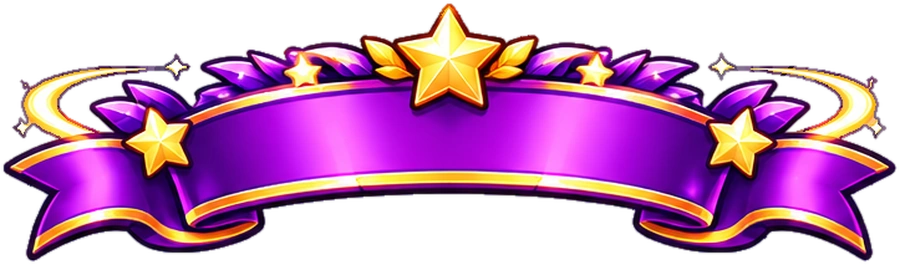
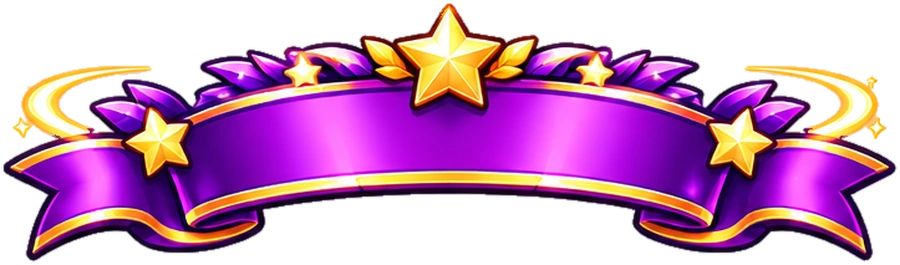
v241 : rubans sans traces sur les bords, pseudo plus petit et remonté sur les rubans de haut niveau
Claude-Session: https://claude.ai/code/session_015rMa72ZKTeXG5gb4Qifn48

diff --git a/js/app.js b/js/app.js
@@ -1,17 +1,17 @@
 // Y'a du peuple ? — logique de l'appli (carte, fiche, signalement, compte).
-import { api, DEMO } from './api.js?v=240';
+import { api, DEMO } from './api.js?v=241';
 import {
   MAP_STYLE_URL, DEFAULT_CENTER, DEFAULT_ZOOM, CONTACT_EMAIL, GOOGLE_CLIENT_ID,
   ROUTE, REFRESH_MS,
-} from './config.js?v=240';
+} from './config.js?v=241';
 import {
   LEVELS, LEVEL_INFO, WAIT_INFO, NO_INFO, levelInfo, describeStatus, mainStatus, brandShort,
   theoryLevelAt, parisNow, bestTimeToday, fmtHour, distanceM, fmtDistance, ago,
   levelFromPercent, gDay, dayHours, openDuringHour, bestTimeFromProfile, openState, hoursLines,
   estimateRoute, fmtDuration,
-} from './levels.js?v=240';
-import { airbnbize, addShieldImage } from './mapstyle.js?v=240';
-import { BRAND_PATHS } from './brands.js?v=240';
+} from './levels.js?v=241';
+import { airbnbize, addShieldImage } from './mapstyle.js?v=241';
+import { BRAND_PATHS } from './brands.js?v=241';
 
 // ---------------------------------------------------------------------------
 // État
@@ -1690,9 +1690,9 @@ let imagesPreloaded = false;
 function preloadAccountImages() {
   if (imagesPreloaded) return;
   imagesPreloaded = true;
-  const urls = new Set([...BADGE_ART].map((c) => `icons/badges/${c}.webp?v=240`));
+  const urls = new Set([...BADGE_ART].map((c) => `icons/badges/${c}.webp?v=241`));
   custom.load().then((list) => {
-    (list || []).forEach((c) => { if (/\.(webp|png|svg)$/.test(c.value || '')) urls.add(`${c.value}?v=240`); });
+    (list || []).forEach((c) => { if (/\.(webp|png|svg)$/.test(c.value || '')) urls.add(`${c.value}?v=241`); });
   }).catch(() => {}).finally(() => {
     const go = () => urls.forEach((u) => { const im = new Image(); im.decoding = 'async'; im.src = u; im.decode?.().catch(() => {}); preloaded.push(im); });
     (window.requestIdleCallback || ((f) => setTimeout(f, 300)))(go);
@@ -1752,7 +1752,7 @@ async function renderAccount(tab = 'profil', opts = {}) {
     </div>
     <div class="referral">
       <div class="ref-head">
-        <img class="ref-ico" src="icons/badges/ref1.webp?v=240" alt="">
+        <img class="ref-ico" src="icons/badges/ref1.webp?v=241" alt="">
         <div class="grow"><div class="t">Parrainage</div><div class="s">Invite tes amis : vous gagnez tous les deux.</div></div>
         <span class="ref-count"><b>${p.referrals ?? 0}</b>${(p.referrals ?? 0) > 1 ? 'amis' : 'ami'}</span>
       </div>
@@ -1809,17 +1809,17 @@ const custom = {
   async load() { if (!this.list.length) this.list = await api.customizations() || []; return this.list; },
   find(kind, code) { return this.list.find((c) => c.kind === kind && c.code === code); },
   // Valeur = fichier image de l'appli (icons/avatars/…svg, icons/banners/…svg) ; ancien format emoji/dégradé toléré.
-  img(v, cls = '') { return /\.(webp|png|svg)$/.test(v || '') ? `<img src="${v}?v=240" alt="" class="${cls}">` : (v || ''); },
-  bg(v) { return /\.(webp|png|svg)$/.test(v || '') ? `url(${v}?v=240) center/cover` : v; },
+  img(v, cls = '') { return /\.(webp|png|svg)$/.test(v || '') ? `<img src="${v}?v=241" alt="" class="${cls}">` : (v || ''); },
+  bg(v) { return /\.(webp|png|svg)$/.test(v || '') ? `url(${v}?v=241) center/cover` : v; },
   avatar(code) { return this.img(this.find('avatar', code)?.value, 'avatar-img' + (String(code).startsWith('badge_') ? ' is-badge' : '')); },
   // Bannière = ruban qui porte le pseudo (rubans du 16/11/2026, outils/rubans_sheet2.py, découpés tels quels).
   // Pseudo : centré sur la bande de chaque ruban (hauteur mesurée) + contour de la couleur du ruban, foncée.
   // --ty = milieu vertical de la bande du ruban, au centre (mesuré sur les images v240, outils/rubans_decoupe_v3.py)
-  RIB: { ruban_ciel: ['44%', '#1c4e7f'], ruban_bonbon: ['43%', '#7a1f55'], ruban_turquoise: ['42.5%', '#0f5145'], ruban_orange: ['43%', '#7a3a00'], ruban_violet: ['43.5%', '#3d1466'], ruban_laurier: ['43.5%', '#1e5a4c'], ruban_nuit: ['43%', '#04203f'], ruban_vache: ['43.5%', '#5a3418'], ruban_damier: ['44%', '#111111'], ruban_flammes: ['44%', '#4a0a05'], ruban_vert: ['41%', '#1f5a0f'], ruban_fleurs: ['57.9%', '#245c0b'], ruban_coeur: ['57.5%', '#7d0f45'], ruban_flocon: ['58.4%', '#0b3a7a'], ruban_engrenage: ['53.9%', '#064450'], ruban_etoile_or: ['56.3%', '#6e3300'], ruban_diamant: ['56.9%', '#0a2f6e'], ruban_flamme_violet: ['55.8%', '#2e0a52'], ruban_etoile_violet: ['53.5%', '#3a0b5c'], ruban_couronne: ['63%', '#5a0606'] },
+  RIB: { ruban_ciel: ['44%', '#1c4e7f'], ruban_bonbon: ['43%', '#7a1f55'], ruban_turquoise: ['42.5%', '#0f5145'], ruban_orange: ['43%', '#7a3a00'], ruban_violet: ['43.5%', '#3d1466'], ruban_laurier: ['43.5%', '#1e5a4c'], ruban_nuit: ['43%', '#04203f'], ruban_vache: ['43.5%', '#5a3418'], ruban_damier: ['44%', '#111111'], ruban_flammes: ['44%', '#4a0a05'], ruban_vert: ['40%', '#1f5a0f', 0.82], ruban_fleurs: ['56.5%', '#245c0b', 0.82], ruban_coeur: ['56%', '#7d0f45', 0.82], ruban_flocon: ['57%', '#0b3a7a', 0.82], ruban_engrenage: ['52.5%', '#064450', 0.82], ruban_etoile_or: ['55%', '#6e3300', 0.82], ruban_diamant: ['55.5%', '#0a2f6e', 0.82], ruban_flamme_violet: ['54.5%', '#2e0a52', 0.82], ruban_etoile_violet: ['52%', '#3a0b5c', 0.82], ruban_couronne: ['61.5%', '#5a0606', 0.82] },
   ribbon(code, pseudo) {
     const b = this.find('banner', code) || this.list.find((c) => c.kind === 'banner');
-    const [ty, tc] = this.RIB[b?.code] || ['46%', '#0B1F3A'];
-    return `<div class="ribbon" style="--ty:${ty};--tc:${tc};--n:${Math.max(8, [...String(pseudo || '')].length)}">${b ? `<img src="${b.value}?v=240" alt="">` : ''}<span>${esc(pseudo || '')}</span></div>`;
+    const [ty, tc, fs = 1] = this.RIB[b?.code] || ['46%', '#0B1F3A'];
+    return `<div class="ribbon" style="--ty:${ty};--tc:${tc};--fs:${fs};--n:${Math.max(8, [...String(pseudo || '')].length)}">${b ? `<img src="${b.value}?v=241" alt="">` : ''}<span>${esc(pseudo || '')}</span></div>`;
   },
 };
 async function openCustomize() {
@@ -1832,7 +1832,7 @@ async function openCustomize() {
     const needBadge = !all && c.requires_badge && !mine.has(c.requires_badge);
     const locked = !all && (lvl < c.min_level || needBadge);
     const on = (c.kind === 'avatar' ? p.avatar : p.banner) === c.code;
-    const inner = c.kind === 'avatar' ? `<span class="cz-emoji">${custom.img(c.value, 'cz-img')}</span>` : `<span class="cz-ribbon"><img src="${c.value}?v=240" alt=""></span>`;
+    const inner = c.kind === 'avatar' ? `<span class="cz-emoji">${custom.img(c.value, 'cz-img')}</span>` : `<span class="cz-ribbon"><img src="${c.value}?v=241" alt=""></span>`;
     const label = c.requires_badge ? (needBadge ? '🔒' : '✅') : `${locked ? '🔒 ' : ''}Niv. ${c.min_level}`;
     return `<button type="button" class="cz ${on ? 'on' : ''} ${locked ? 'locked' : ''}" data-kind="${c.kind}" data-code="${c.code}" ${locked ? 'disabled' : ''}>
       ${inner}<span class="cz-lock">${esc(label)}</span></button>`;
@@ -1920,7 +1920,7 @@ const BADGE_ART = new Set(['v1', 'v10', 'v50', 'v100', 'v250', 'v500', 'drive10'
 // Badges en .svg : plus aucun (outils/badges_sheet.py et badges_sheet2.py découpent les images ChatGPT).
 const BADGE_SVG = new Set(); // tous les badges sont maintenant des images ChatGPT (.webp)
 const badgeImg = (code) => BADGE_ART.has(code)
-  ? `<img src="icons/badges/${code}.${BADGE_SVG.has(code) ? 'svg' : 'webp'}?v=240" alt="" class="badge-img">`
+  ? `<img src="icons/badges/${code}.${BADGE_SVG.has(code) ? 'svg' : 'webp'}?v=241" alt="" class="badge-img">`
   : `<span class="badge-emoji">${BADGE_ICONS[code] || '🏅'}</span>`;
 function badgesHtml(rows = []) {
   if (!rows.length) return '<p class="muted">Aucun badge pour le moment.</p>';
@@ -2948,7 +2948,7 @@ async function openWheel(month = parisMonth(-1)) {
   const el = document.createElement('div');
   el.id = 'wheel';
   el.innerHTML = `<button class="wh-x" aria-label="Fermer">✕</button><button class="wh-snd" aria-label="Son">🔊</button>
-    <div class="wh-head"><img src="icons/logo-boot.png?v=240" alt="Y'a du peuple ?"><div class="wh-t">Tirage au sort</div><div class="wh-m">${monthLabel(month)}${official ? '' : ' · essai'}</div></div>
+    <div class="wh-head"><img src="icons/logo-boot.png?v=241" alt="Y'a du peuple ?"><div class="wh-t">Tirage au sort</div><div class="wh-m">${monthLabel(month)}${official ? '' : ' · essai'}</div></div>
     <div class="wh-stage"><div class="wh-ptr"></div><canvas width="900" height="900"></canvas><div class="wh-hub"></div></div>
     <div class="wh-now">⏳</div>
     <div class="wh-info"></div>

diff --git a/css/app.css b/css/app.css
@@ -656,7 +656,7 @@ html, body, .sheet, .sheet-body, .welcome, .cards { touch-action: pan-x pan-y; }
 .profile-head .avatar-edit { right: 2px; bottom: 2px; }
 .ribbon { container-type: inline-size; position: relative; z-index: 1; width: min(100%, 330px); margin-top: 10px; filter: drop-shadow(0 3px 6px rgba(11,31,58,.18)); }
 .ribbon img { display: block; width: 100%; height: auto; }
-.ribbon span { position: absolute; left: 21%; right: 21%; top: var(--ty, 46%); transform: translateY(-42%); text-align: center; font-weight: 900; font-size: min(clamp(15px, 5.2vw, 21px), calc(55cqw / (var(--n, 10) * 0.64))); line-height: 1.15; color: #fff; letter-spacing: .3px; white-space: nowrap; overflow: hidden; text-overflow: ellipsis; padding: 3px 2px;
+.ribbon span { position: absolute; left: 21%; right: 21%; top: var(--ty, 46%); transform: translateY(-42%); text-align: center; font-weight: 900; font-size: calc(min(clamp(15px, 5.2vw, 21px), calc(55cqw / (var(--n, 10) * 0.64))) * var(--fs, 1)); line-height: 1.15; color: #fff; letter-spacing: .3px; white-space: nowrap; overflow: hidden; text-overflow: ellipsis; padding: 3px 2px;
   text-shadow: 2px 0 0 var(--tc), -2px 0 0 var(--tc), 0 2px 0 var(--tc), 0 -2px 0 var(--tc), 1.5px 1.5px 0 var(--tc), -1.5px 1.5px 0 var(--tc), 1.5px -1.5px 0 var(--tc), -1.5px -1.5px 0 var(--tc), 0 3px 4px rgba(0,0,0,.35); }
 .profile-head .lvl { margin-top: 2px; }
 .cz-ribbon { display: block; width: 100%; }
@@ -863,7 +863,7 @@ html, body, .sheet, .sheet-body, .welcome, .cards { touch-action: pan-x pan-y; }
 #wheel .wh-stage { position: relative; width: min(88vw, 52vh, 460px); aspect-ratio: 1; margin: 16px 0 10px; }
 #wheel canvas { width: 100%; height: 100%; display: block; filter: drop-shadow(0 10px 24px rgba(11,31,58,.35)); }
 #wheel .wh-ptr { position: absolute; left: 50%; top: -14px; transform: translateX(-50%); width: 0; height: 0; border-left: 18px solid transparent; border-right: 18px solid transparent; border-top: 34px solid #0B1F3A; z-index: 2; filter: drop-shadow(0 2px 2px rgba(0,0,0,.3)); }
-#wheel .wh-hub { position: absolute; left: 50%; top: 50%; width: 15%; aspect-ratio: 1; transform: translate(-50%, -50%); border-radius: 50%; background: #fff url('../icons/icon-192.png?v=240') center / 78% no-repeat; box-shadow: 0 2px 8px rgba(0,0,0,.25); }
+#wheel .wh-hub { position: absolute; left: 50%; top: 50%; width: 15%; aspect-ratio: 1; transform: translate(-50%, -50%); border-radius: 50%; background: #fff url('../icons/icon-192.png?v=241') center / 78% no-repeat; box-shadow: 0 2px 8px rgba(0,0,0,.25); }
 #wheel .wh-now { min-height: 44px; font-size: 32px; font-weight: 900; color: #fff; text-shadow: 0 2px 6px rgba(11,31,58,.35); text-align: center; max-width: 100%; overflow: hidden; text-overflow: ellipsis; white-space: nowrap; }
 #wheel .wh-info { font-size: 15px; font-weight: 700; color: #0B1F3A; margin: 2px 0 12px; }
 #wheel .wh-actions { width: min(100%, 420px); margin-top: auto; }

diff --git a/index.html b/index.html
@@ -23,13 +23,13 @@
   <link rel="preconnect" href="https://tiles.openfreemap.org" crossorigin>
   <link rel="preconnect" href="https://ygekcpnsjbbdgtmlxdce.supabase.co" crossorigin>
   <link rel="manifest" href="manifest.webmanifest">
-  <link rel="icon" href="icons/fav-64.png?v=240" type="image/png" sizes="64x64">
-  <link rel="icon" href="icons/fav-192.png?v=240" type="image/png" sizes="192x192">
-  <link rel="apple-touch-icon" href="icons/icon-512.png?v=240">
+  <link rel="icon" href="icons/fav-64.png?v=241" type="image/png" sizes="64x64">
+  <link rel="icon" href="icons/fav-192.png?v=241" type="image/png" sizes="192x192">
+  <link rel="apple-touch-icon" href="icons/icon-512.png?v=241">
   <meta name="apple-mobile-web-app-capable" content="yes">
   <meta name="apple-mobile-web-app-status-bar-style" content="default">
   <link rel="stylesheet" href="vendor/maplibre-gl.css">
-  <link rel="stylesheet" href="css/app.css?v=240" id="app-css">
+  <link rel="stylesheet" href="css/app.css?v=241" id="app-css">
   <style>/* Secours si app.css n'arrive pas : on garde l'écran turquoise au lieu d'une page sans style */
     html.booting, html.booting body, html.css-wait, html.css-wait body { background:#46B8B9; margin:0 }
     html.booting body > *:not(#welcome), html.css-wait body > * { visibility:hidden }
@@ -76,7 +76,7 @@
   <section class="welcome" id="welcome" hidden>
     <div class="welcome-inner">
       <div class="welcome-logo">
-        <img src="icons/logo-boot.png?v=240" alt="Y'a du peuple ?" width="242" height="203">
+        <img src="icons/logo-boot.png?v=241" alt="Y'a du peuple ?" width="242" height="203">
       </div>
       <h1 class="sr-only">Y'a du peuple&nbsp;?</h1>
       <p class="slogan" id="slogan">Venu pour manger, pas pour poireauter.</p>
@@ -95,7 +95,7 @@
 
   <script src="vendor/maplibre-gl.js"></script>
   <script src="vendor/supabase.js"></script>
-  <script type="module" src="js/app.js?v=240"></script>
+  <script type="module" src="js/app.js?v=241"></script>
   <script>
   /* Contrôle du style : si app.css n'a pas été appliqué (réseau coupé au 1er chargement), on le redemande, puis on recharge la page une fois. */
   (function () {
@@ -105,7 +105,7 @@
       document.documentElement.classList.add('css-wait');
       if (n === 0) {
         var l = document.createElement('link'); l.rel = 'stylesheet';
-        l.href = 'css/app.css?v=240&r=' + Date.now(); document.head.appendChild(l);
+        l.href = 'css/app.css?v=241&r=' + Date.now(); document.head.appendChild(l);
         setTimeout(function () { check(1); }, 2500);
       } else if (!sessionStorage.getItem('ydp_css_reload')) {
         sessionStorage.setItem('ydp_css_reload', '1'); location.reload();

diff --git a/demo.html b/demo.html
@@ -9,12 +9,12 @@
   <meta name="theme-color" content="#0B1F3A" media="(prefers-color-scheme: dark)">
   <meta name="theme-color" content="#0B1F3A">
   <link rel="manifest" href="manifest.webmanifest">
-  <link rel="icon" href="icons/fav-64.png?v=240" type="image/png">
-  <link rel="apple-touch-icon" href="icons/icon-512.png?v=240">
+  <link rel="icon" href="icons/fav-64.png?v=241" type="image/png">
+  <link rel="apple-touch-icon" href="icons/icon-512.png?v=241">
   <meta name="apple-mobile-web-app-capable" content="yes">
   <meta name="apple-mobile-web-app-status-bar-style" content="default">
   <link rel="stylesheet" href="vendor/maplibre-gl.css">
-  <link rel="stylesheet" href="css/app.css?v=240">
+  <link rel="stylesheet" href="css/app.css?v=241">
 </head>
 <body class="intro">
   <div id="map" aria-label="Carte des restaurants"></div>
@@ -57,7 +57,7 @@
   <section class="welcome" id="welcome" hidden>
     <div class="welcome-inner">
       <div class="welcome-logo">
-        <img src="icons/icon-512.png?v=240" alt="" width="110" height="110" style="border-radius:26px">
+        <img src="icons/icon-512.png?v=241" alt="" width="110" height="110" style="border-radius:26px">
       </div>
       <h1>Y'a du peuple&nbsp;?</h1>
       <p class="slogan" id="slogan">Venu pour manger, pas pour poireauter.</p>
@@ -77,6 +77,6 @@
   <script>window.YDP_DEMO = true;</script>
   <script src="vendor/maplibre-gl.js"></script>
   <script src="vendor/supabase.js"></script>
-  <script type="module" src="js/app.js?v=240"></script>
+  <script type="module" src="js/app.js?v=241"></script>
 </body>
 </html>

diff --git a/js/demo.js b/js/demo.js
@@ -1,5 +1,5 @@
 // Faux serveur pour le mode démo (?demo) : aucune donnée réelle n'est lue ni écrite.
-import { DEMO_ESTABLISHMENTS as DEMO_ALL } from './demo-data.js?v=240';
+import { DEMO_ESTABLISHMENTS as DEMO_ALL } from './demo-data.js?v=241';
 // Comme la base : Buffalo Grill et Flunch cachés (24/11/2026).
 const DEMO_ESTABLISHMENTS = DEMO_ALL.filter((e) => !/^(Buffalo Grill|Flunch)$/.test(e.brand));
 // Démo envoyée aux futurs partenaires (?demo&resto) : le resto partenaire de démonstration ne porte pas le nom d'un vrai restaurant.
@@ -7,7 +7,7 @@ if (new URLSearchParams(location.search).has('resto')) {
   const e = DEMO_ESTABLISHMENTS.find((x) => x.id === '1410c6a8-46d9-4d6c-83f2-c98b8c7a4c42');
   if (e) e.name = 'Votre restaurant (démo)';
 }
-import { distanceM, LEVELS, theoryLevelAt, parisNow } from './levels.js?v=240';
+import { distanceM, LEVELS, theoryLevelAt, parisNow } from './levels.js?v=241';
 
 const wait = (ms = 150) => new Promise((r) => setTimeout(r, ms));
 

diff --git a/js/api.js b/js/api.js
@@ -1,6 +1,6 @@
 // Accès aux données : Supabase en vrai, ou un faux serveur en mode démo (?demo).
-import { SUPABASE_URL, SUPABASE_PUBLISHABLE_KEY } from './config.js?v=240';
-import { createDemoApi } from './demo.js?v=240';
+import { SUPABASE_URL, SUPABASE_PUBLISHABLE_KEY } from './config.js?v=241';
+import { createDemoApi } from './demo.js?v=241';
 
 // Charge une table par pages de 1000 : 5 pages en parallèle, puis la suite si besoin.
 async function pagesInParallel(page, first = 5) {

diff --git a/outils/rubans_decoupe_v4.py b/outils/rubans_decoupe_v4.py
@@ -1,0 +1,106 @@
+"""Rubans de profil : nouvelle découpe (28/11/2026, demande d'Alexis : plus aucune trace sur les bords, rien de redessiné).
+Les rubans des planches ChatGPT ont tous un contour foncé ; derrière : fond blanc, halo blanc et ombre lavande.
+1) objet = tout ce qui est enfermé par le contour (pixels colorés ou foncés, trous bouchés) ;
+2) bord : le liseré clair/gris qui reste à l'extérieur du contour est retiré, et les pixels du bord prennent
+   la couleur du contour voisin (pas de halo clair) ; transparence lissée sur 1 pixel seulement.
+3) taille d'origine × 1,3 (900 px de large), sans flou ni retouche du dessin.
+Les anciennes images sont gardées dans outils/src/rubans_avant_v3/.
+v4 (28/11) : ce qui dépasse du contour foncé (lueurs, halos clairs, éclats) est retiré, sauf les gros morceaux colorés.
+Usage : python3 outils/rubans_decoupe_v4.py [dossier de sortie]"""
+import os, shutil
+import numpy as np
+from PIL import Image, ImageFilter
+from scipy import ndimage
+
+SHEETS = {
+    'outils/src/rubans_sheet.png':  [None, None, 'ruban_vert', None, None, None, None, None, None, None],
+    'outils/src/rubans_sheet2.png': ['ruban_nuit', 'ruban_turquoise', 'ruban_violet', 'ruban_ciel', 'ruban_laurier',
+                                     'ruban_bonbon', 'ruban_orange', 'ruban_damier', 'ruban_vache', 'ruban_flammes'],
+    'outils/src/rubans_sheet3.png': ['ruban_couronne', 'ruban_etoile_violet', None, 'ruban_flamme_violet', 'ruban_engrenage',
+                                     'ruban_diamant', 'ruban_fleurs', 'ruban_coeur', 'ruban_etoile_or', 'ruban_flocon'],
+}
+OUT_W = 900
+import sys
+OUT_DIR = sys.argv[1] if len(sys.argv) > 1 else 'icons/banners'
+
+def cut(path, codes):
+    im = Image.open(path).convert('RGB')
+    a = np.asarray(im).astype(float)
+    mx, mn = a.max(axis=2), a.min(axis=2)
+    lum = a @ [0.299, 0.587, 0.114]
+    sat = (mx - mn) / np.maximum(mx, 1)
+    # pixels qui appartiennent sûrement au dessin : bien colorés, ou foncés (contour)
+    core = ((sat > 0.45) & (mx > 60)) | ((sat > 0.32) & (lum < 150)) | (lum < 125)
+    # fond = clair et peu coloré, relié au bord de l'image (blanc, halo, ombre lavande)
+    light = ~core
+    lab, _ = ndimage.label(light)
+    edge = set(np.unique(np.concatenate([lab[0], lab[-1], lab[:, 0], lab[:, -1]]))) - {0}
+    bg = np.isin(lab, list(edge))
+    obj = ~bg
+    # trous : bouchés sauf s'ils sont de l'ombre / du fond coincés (clairs et peu colorés, assez grands)
+    holes = ndimage.binary_fill_holes(obj) & ~obj
+    hl, nh = ndimage.label(holes)
+    for j in range(1, nh + 1):
+        h = hl == j
+        shade = (~core[h]).mean() > 0.8 and (sat[h] < 0.25).mean() > 0.8 and (lum[h] > 150).mean() > 0.8
+        if not (shade and h.sum() >= 30): obj |= h
+    obj = ndimage.binary_opening(obj, iterations=1)
+    lab2, k = ndimage.label(ndimage.binary_dilation(obj, iterations=3))
+    sizes = ndimage.sum(obj, lab2, range(1, k + 1))
+    keep = np.argsort(sizes)[::-1][:10] + 1
+    boxes = sorted([(ndimage.find_objects((lab2 == i).astype(int))[0], i) for i in keep],
+                   key=lambda t: (t[0][1].start > a.shape[1] / 2, t[0][0].start))
+    for code, (b, i) in zip(codes, boxes):
+        if not code: continue
+        m = obj & (lab2 == i)
+        # garde seulement le gros morceau (et les ornements de taille notable)
+        l3, k3 = ndimage.label(m)
+        if k3 > 1:
+            sz = ndimage.sum(m, l3, range(1, k3 + 1))
+            m = np.isin(l3, [j + 1 for j, v in enumerate(sz) if v >= sz.max() * 0.02])
+        # épluche depuis l'extérieur le liseré clair / peu coloré resté hors du contour
+        for _ in range(15):
+            border = m & ~ndimage.binary_erosion(m)
+            peel = border & ~core
+            if not peel.any(): break
+            m = m & ~peel
+        # v4 : tout ce qui est hors du contour foncé est du fond (halo, lueur), sauf les gros morceaux colorés sans contour
+        dark0 = m & (lum < 115)
+        enc = ndimage.binary_fill_holes(ndimage.binary_closing(dark0, iterations=2)) & m
+        outs = m & ~enc
+        oo = ndimage.binary_opening(outs, iterations=2)
+        lo, ko = ndimage.label(oo)
+        big = np.zeros_like(oo)
+        if ko:
+            so = ndimage.sum(oo, lo, range(1, ko + 1))
+            big = np.isin(lo, [j + 1 for j, v in enumerate(so) if v >= 300])
+        m = enc | (ndimage.binary_dilation(big, iterations=2) & outs)
+        m = ndimage.binary_opening(m, iterations=1)
+        l3, k3 = ndimage.label(m)
+        if k3 > 1:
+            sz = ndimage.sum(m, l3, range(1, k3 + 1))
+            m = np.isin(l3, [j + 1 for j, v in enumerate(sz) if v >= sz.max() * 0.01])
+        # couleur du bord = couleur du contour foncé le plus proche (supprime tout halo clair)
+        dark = m & (lum < 125)
+        dist_in = ndimage.distance_transform_edt(m)
+        dd, (iy, ix) = ndimage.distance_transform_edt(~dark, return_indices=True)
+        rgb = a.copy()
+        band = m & (dist_in <= 2.5) & ~dark & (dd <= 4)
+        rgb[band] = a[iy[band], ix[band]]
+        # extension de 1 px de la couleur du contour vers l'extérieur (pour l'anticrénelage)
+        ring = ndimage.binary_dilation(m, iterations=2) & ~m & (dd <= 6)
+        rgb[ring] = a[iy[ring], ix[ring]]
+        alpha = np.asarray(Image.fromarray((m * 255).astype('uint8')).filter(ImageFilter.GaussianBlur(0.6))).astype(float)
+        out = Image.fromarray(np.dstack([np.clip(rgb, 0, 255), alpha]).astype('uint8'), 'RGBA')
+        ys, xs = np.nonzero(m)
+        crop = out.crop((max(0, xs.min() - 3), max(0, ys.min() - 3), min(a.shape[1], xs.max() + 4), min(a.shape[0], ys.max() + 4)))
+        crop = crop.resize((OUT_W, round(crop.height * OUT_W / crop.width)), Image.LANCZOS)
+        dst = f'{OUT_DIR}/{code}.webp'
+        os.makedirs('outils/src/rubans_avant_v3', exist_ok=True)
+        if OUT_DIR == 'icons/banners' and os.path.exists(dst) and not os.path.exists(f'outils/src/rubans_avant_v3/{code}.webp'):
+            shutil.copy(dst, f'outils/src/rubans_avant_v3/{code}.webp')
+        crop.save(dst, quality=95, method=6)
+        print(code, crop.size)
+
+if __name__ == '__main__':
+    for p, c in SHEETS.items(): cut(p, c)

diff --git a/CLAUDE.md b/CLAUDE.md
@@ -97,7 +97,7 @@ Erreurs de submit_report : `{ok:false, error, message}` — afficher `message` t
   et agrandies ×4 (outils/extract.py) → icons/avatars/*.webp, icons/banners/*.webp. Ne pas les redessiner.
   Bannières = 19 rubans (16/11/2026, v141, planches ChatGPT d'Alexis outils/src/rubans_sheet2.png + rubans_sheet3.png, découpe
   outils/rubans_sheet2.py, sans ornement au milieu de la bande ; supabase/2026-11-16_nouveaux_rubans.sql) qui portent le pseudo sous l'avatar
-  (hauteur + contour par ruban : custom.RIB dans app.js ; v210 : taille du pseudo réduite selon sa longueur, 20 caractères tiennent en entier, via --n + cqw). v240 (28/11) : 20 rubans redécoupés proprement (outils/rubans_decoupe_v3.py : bords sans trace lavande, contour décontaminé, 900 px ; anciens dans outils/src/rubans_avant_v3/) ; netteté limitée par la résolution des planches ChatGPT ; pseudo centré au milieu de la bande (RIB recalibré, .ribbon span translateY(-42%)) ; photo de profil 108 → 92 px. Niveaux (revus le 17/11, v169, supabase/2026-11-17_rubans_niveaux_glace_cafe.sql) : 1 (ciel, bonbon, turquoise, orange), 3 violet, 5 laurier, 8 nuit,
+  (hauteur + contour par ruban : custom.RIB dans app.js ; v210 : taille du pseudo réduite selon sa longueur, 20 caractères tiennent en entier, via --n + cqw). v240 (28/11) : 20 rubans redécoupés proprement (outils/rubans_decoupe_v3.py : bords sans trace lavande, contour décontaminé, 900 px ; anciens dans outils/src/rubans_avant_v3/) ; netteté limitée par la résolution des planches ChatGPT ; pseudo centré au milieu de la bande (RIB recalibré, .ribbon span translateY(-42%)) ; photo de profil 108 → 92 px. v241 : redécoupe v4 (outils/rubans_decoupe_v4.py : tout ce qui dépasse du contour foncé est retiré : lueurs, halos clairs, éclats isolés, traîne de l'étoile violette) ; rubans de haut niveau (vert, engrenage, cœur, fleurs, flocon, étoiles, diamant, flamme violette, couronne) : bande plus fine → pseudo 18 % plus petit (3e valeur de RIB = --fs) et remonté de 1-1,5 %, il ne touche plus le bas de la bande. Niveaux (revus le 17/11, v169, supabase/2026-11-17_rubans_niveaux_glace_cafe.sql) : 1 (ciel, bonbon, turquoise, orange), 3 violet, 5 laurier, 8 nuit,
   10 vache, 12 damier, 14 flammes, 16 vert (feuilles, ancien ruban du 15/11 réactivé), 20 engrenage, 25 cœur, 30 fleurs, 40 flocon,
   50 étoile violette, 60 étoile or, 70 diamant (60 et 70 échangés le 18/11), 85 flamme violette, 100 couronne rouge. Images de profil Glace et Café ajoutées
   au niveau 1 (planche 1, outils/extract.py, bulle turquoise reprise des tacos par outils/avatar_centrer.py). Les 10 rubans du 15/11 et les anciennes bannières sont désactivés (fichiers gardés).
